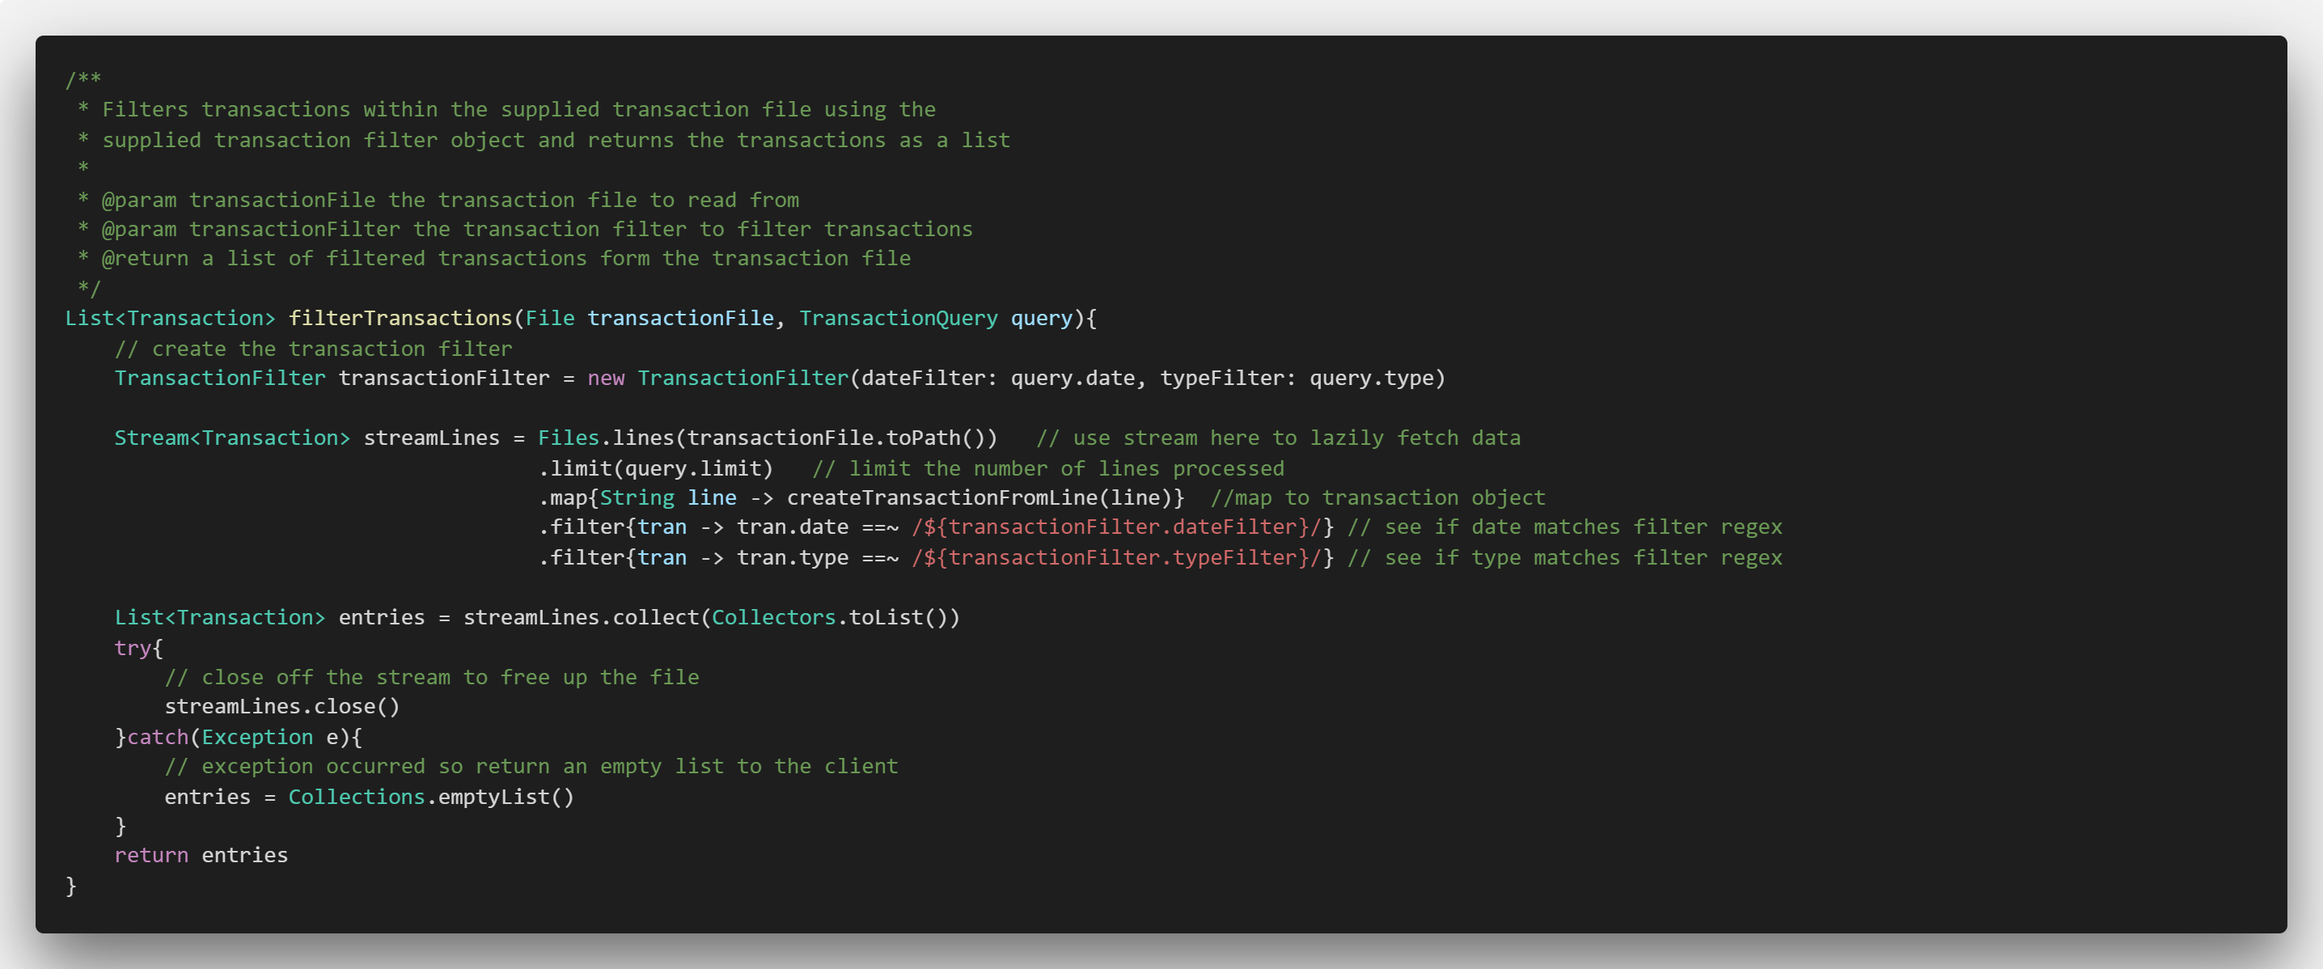
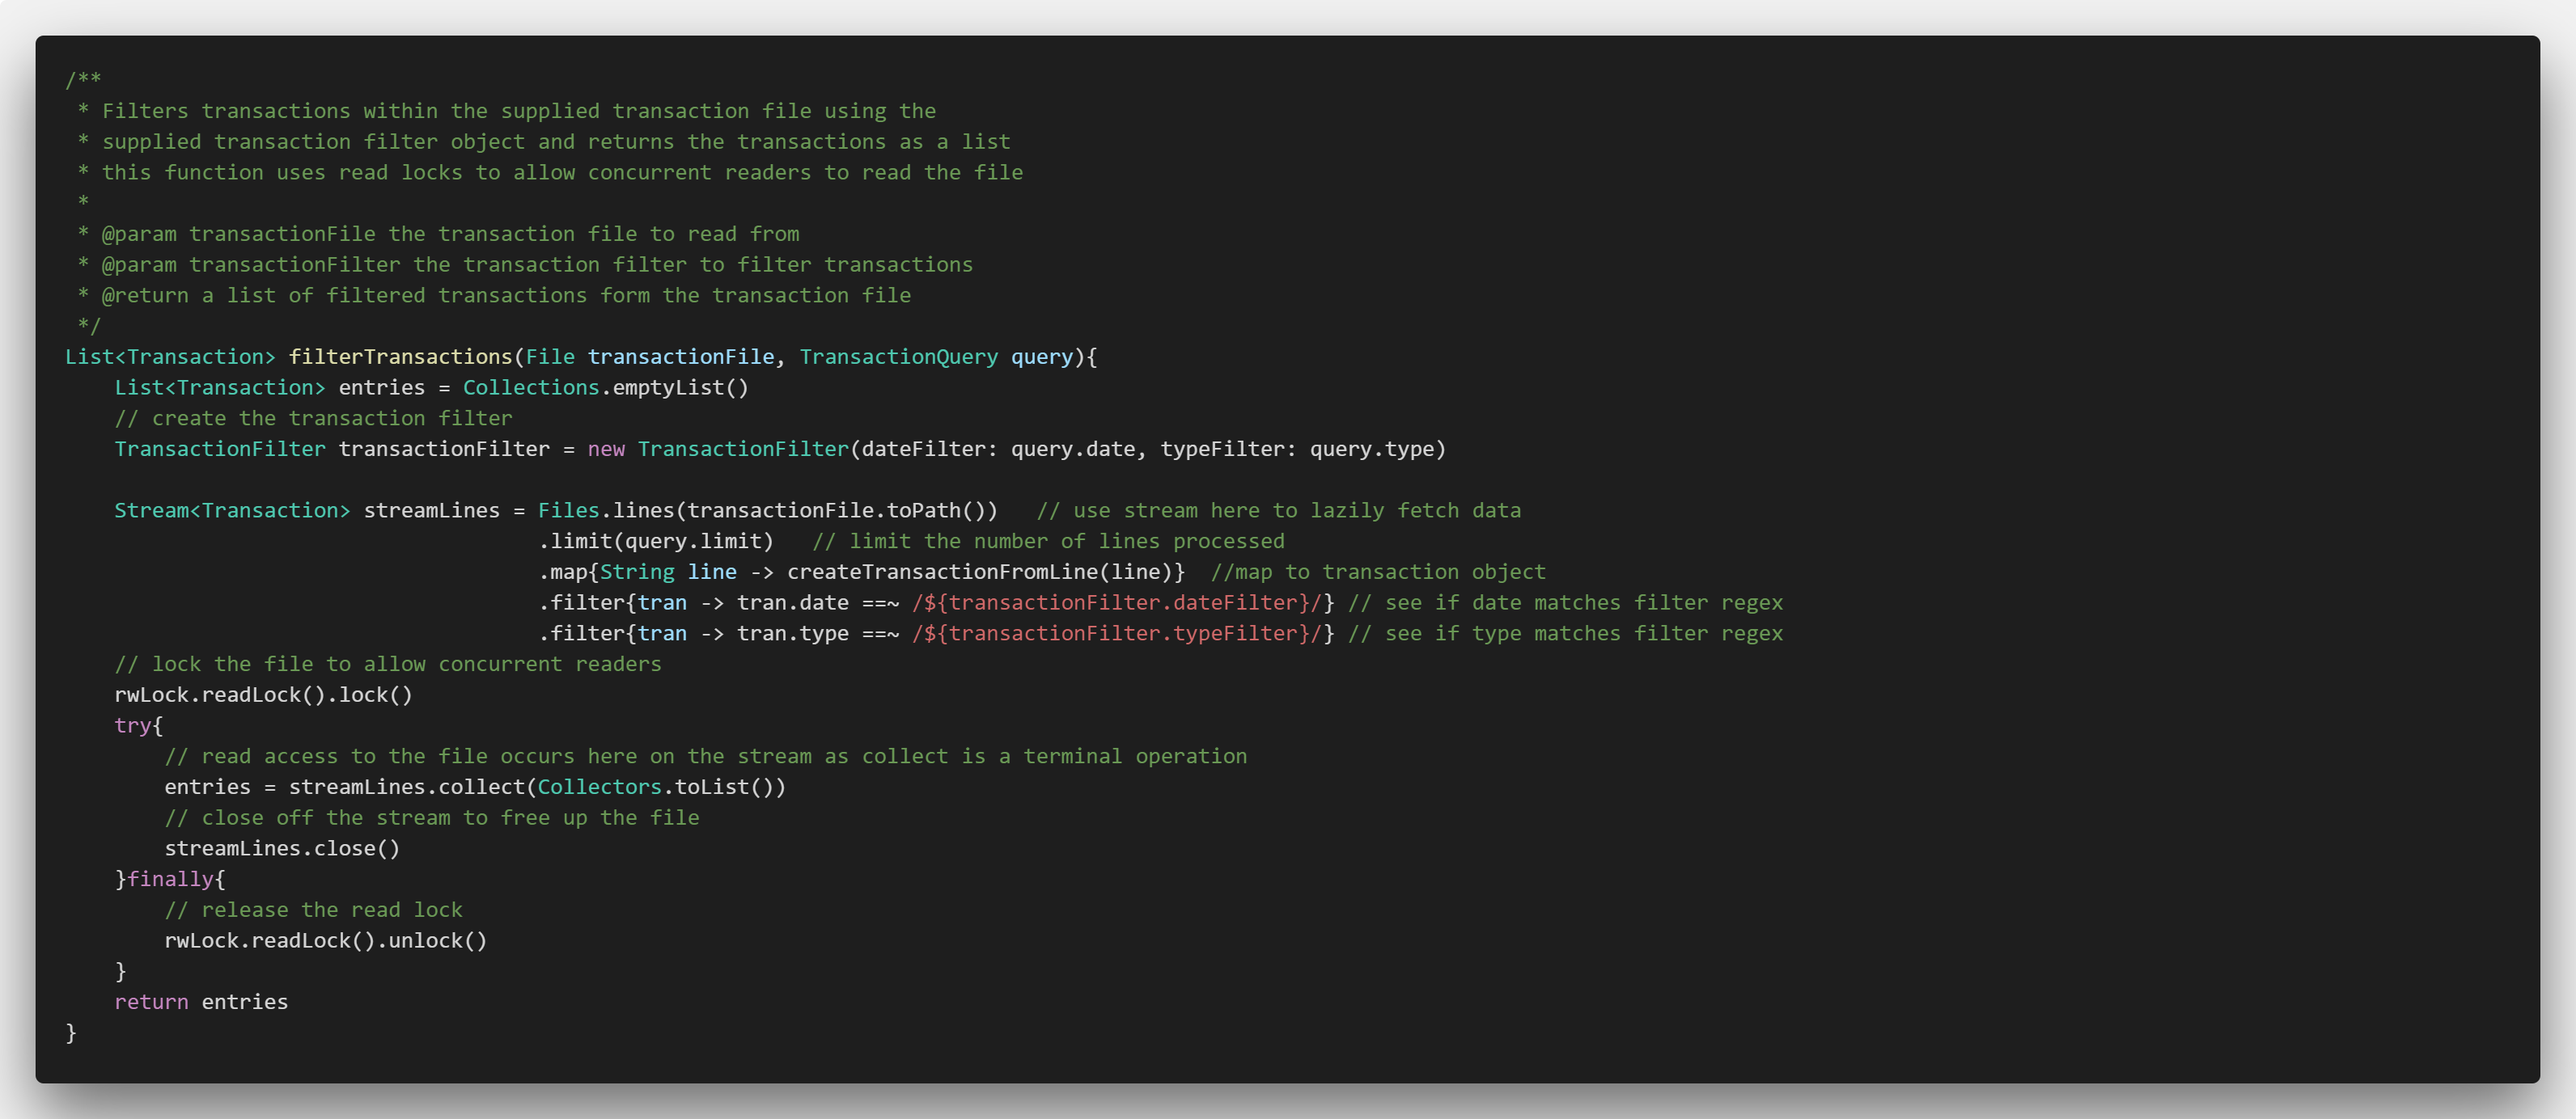
updated readme

diff --git a/README.md b/README.md
@@ -30,7 +30,8 @@ You can send transactions to the web service by supplying the data in this forma
 * When checking for duplicate entries a copy of the transactions file is made and as duplicates and new transactions are found they are written to this copy file.
 * Once all transactions are dealt with the old transactions file is deleted and the copy is renamed to the original file name.
 * To keep memory consumption low all IO is done line by line.
-* Any file IO is synchronized to stop several threads writing or reading the same transaction file and corrupting the data.
+* File write use write locks to stop several threads writing to the transaction file. 
+* File reads use read locks to allow concurrent reads on the transaction file.
 * Once the data is inserted a response is returned to the client in the following format
   ```json
   {
